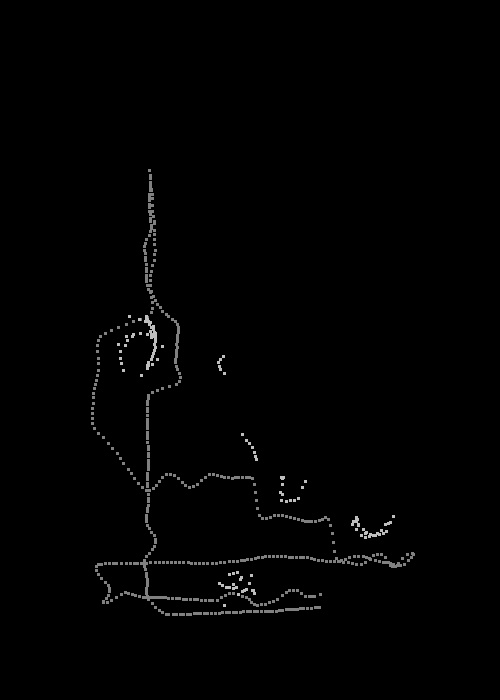
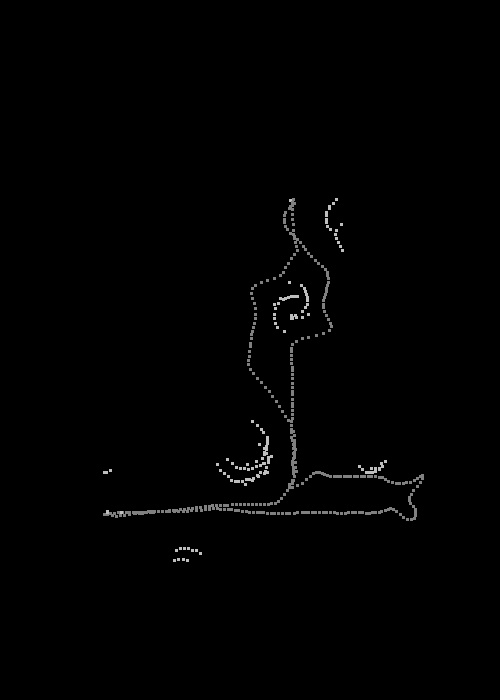
final !!

diff --git a/projet/arena.py b/projet/arena.py
@@ -9,15 +9,15 @@ class Arena():
     """ Arena dimension [m] """
     
     # absolute dimention, origin down right
-    WIDTH = 3
+    WIDTH = 3.1
     LENGTH = 5
 
     # Landing and starting region
     REGION_LENGTH = 1.5
 
     # Position (centre) of the plateforme from the origine
-    ORIGIN_X = 0.85      # from the "bottum"
-    ORIGIN_Y = 0.5     # from the right
+    ORIGIN_X = 1      # from the "bottum"
+    ORIGIN_Y = 2     # from the right
 
     # Distance of the drone to the landing region
     START_ZONE_2 = LENGTH - REGION_LENGTH - ORIGIN_X

diff --git a/projet/main.py b/projet/main.py
@@ -37,7 +37,7 @@ if __name__ == '__main__':
     cflib.crtp.init_drivers()
     # drone radio identifier
     URI = uri_helper.uri_from_env(default='radio://0/80/2M/E7E7E7E702')
-    offset = Arena.ORIGIN_Y
+    # offset = Arena.ORIGIN_Y
     with SyncCrazyflie(URI, cf=Crazyflie(rw_cache='./cache')) as scf:
 
         # create a drone (inherit from motion commander)
